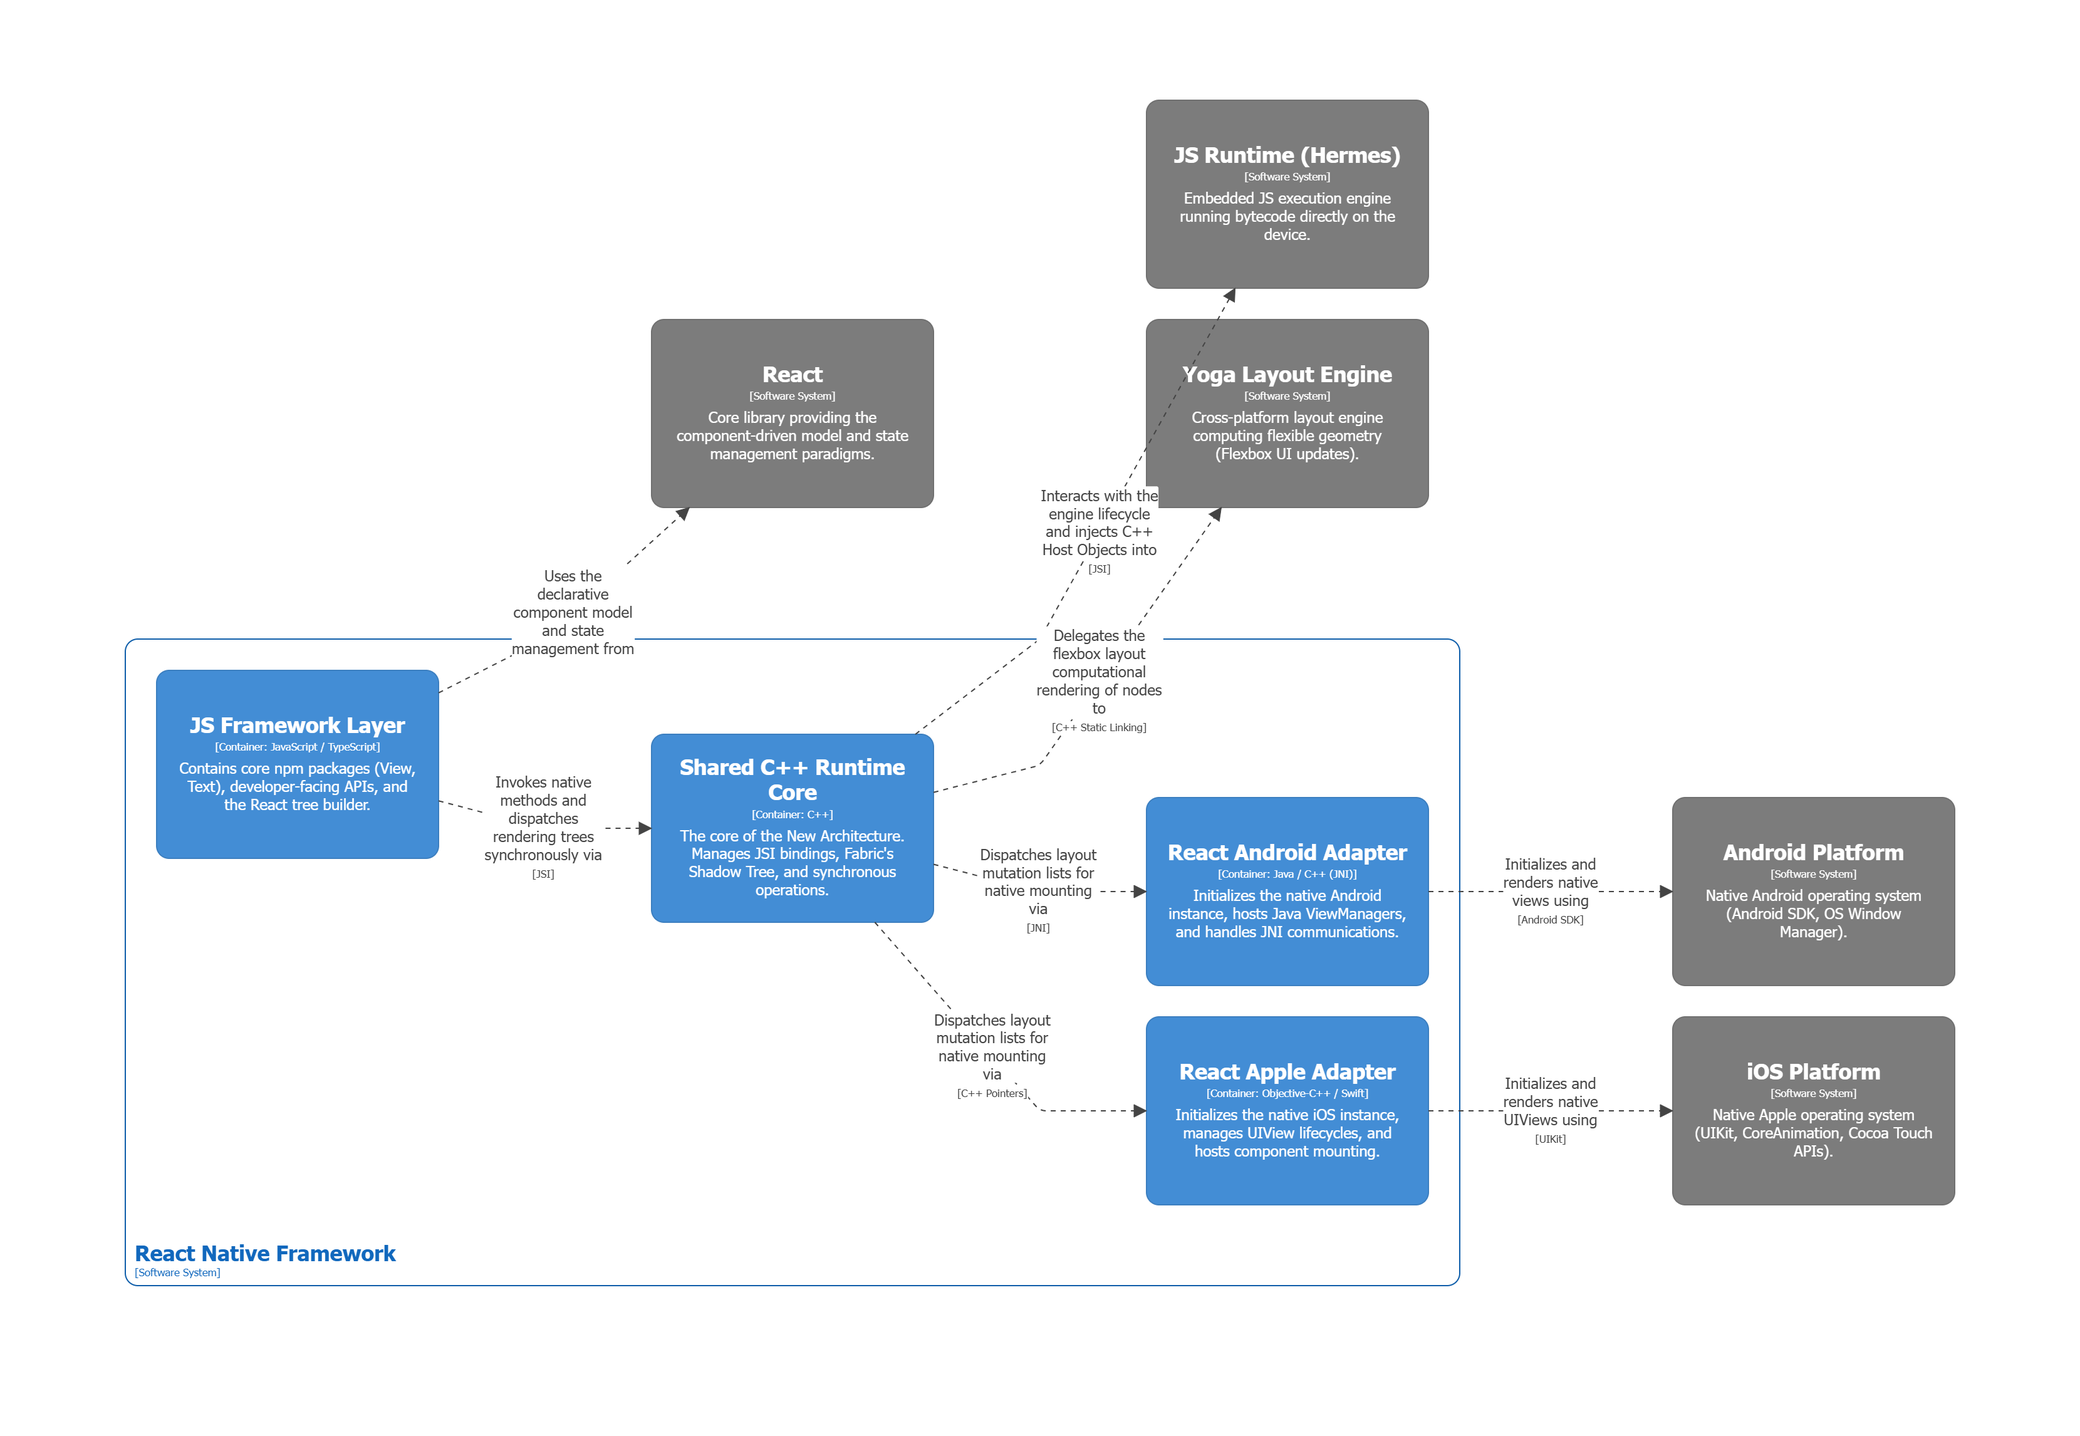
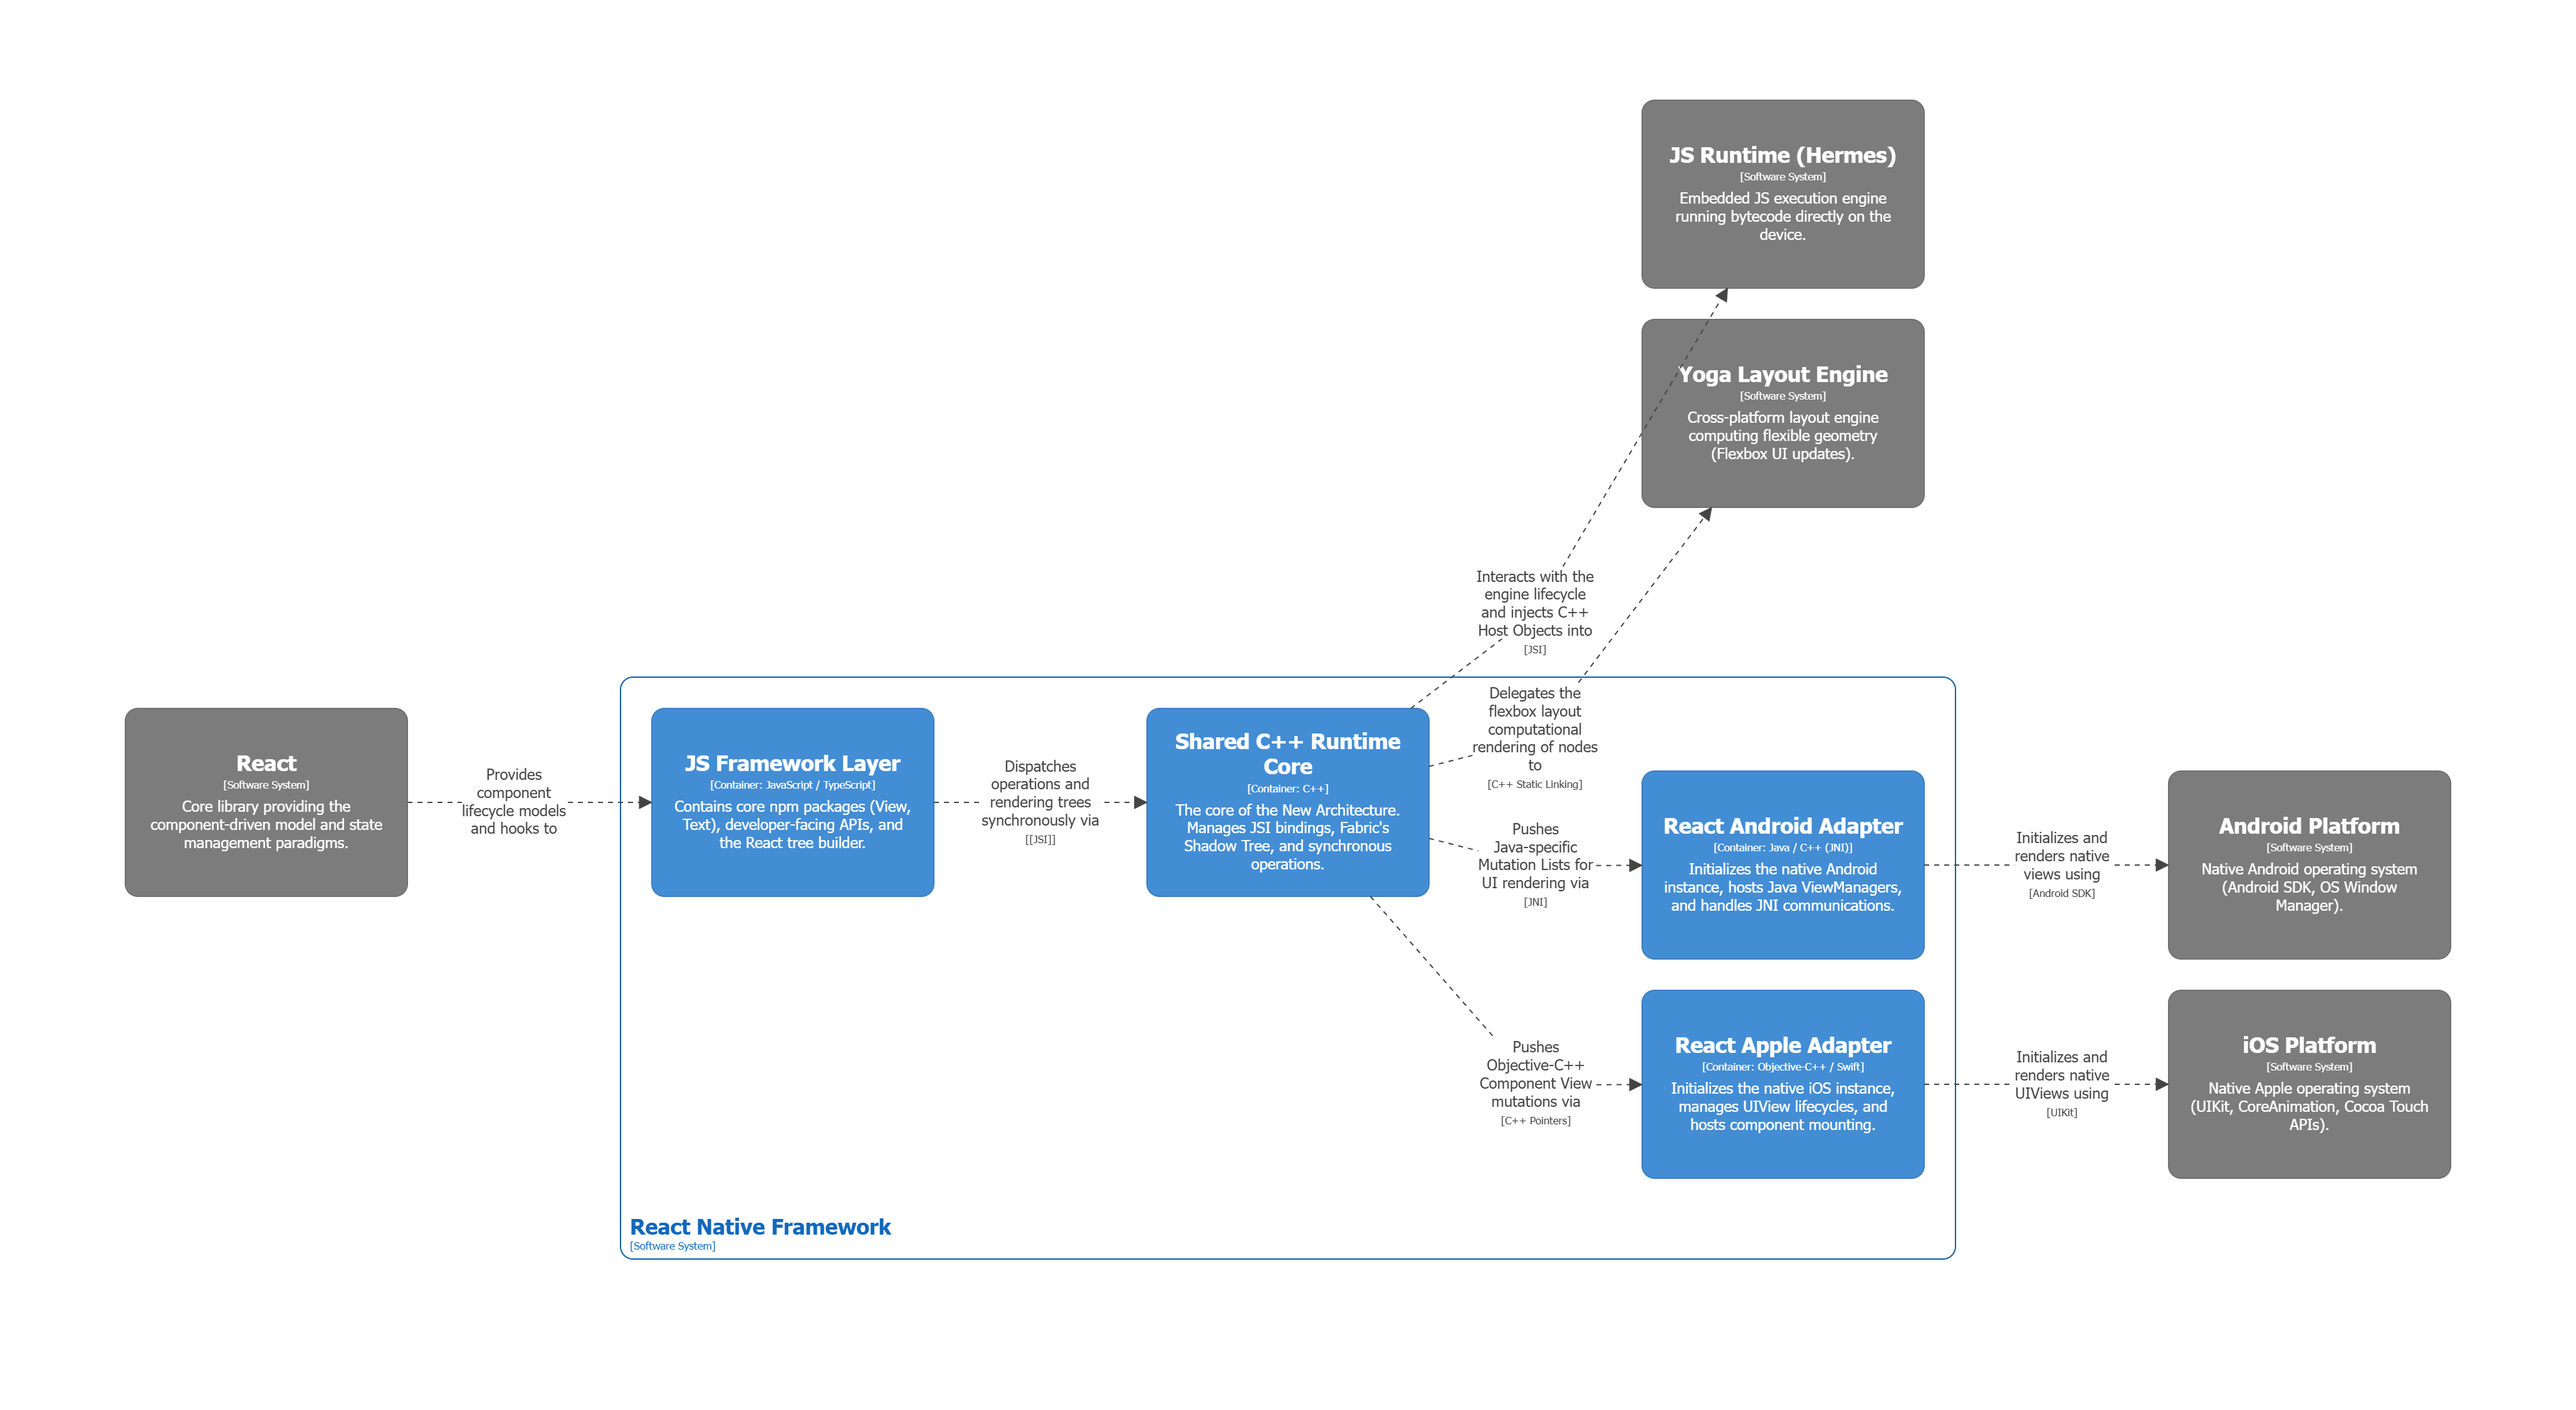
Refactor diagrams and update architecture report with detailed notes and corrections

diff --git a/reports/SoftwareArchitecture.md b/reports/SoftwareArchitecture.md
@@ -16,6 +16,7 @@ The Context diagram defines the macro-boundaries of the React Native Framework a
 * **JS Runtime (Hermes):** The external execution engine specifically optimized for React Native. It parses and evaluates JavaScript bytecode, manages garbage collection on the JS thread, and interacts directly with the C++ core via JSI.
 * **Yoga Layout Engine:** A standalone, cross-platform layout engine that implements Flexbox. React Native delegates the mathematical calculation of UI coordinates and geometry to this external C/C++ library.
 * **Android / iOS Platforms:** The ultimate targets of the framework. React Native pushes abstract initialization commands and native rendering instructions to these host operating systems.
+Through these relationships, the framework is able to translate React's declarative and expressive logic into high-performance user interfaces, leveraging the native capabilities of each operating system without compromising the user experience.
 
 *(Note: Human actors, such as Mobile Developers or End Users, are deliberately excluded from this boundary to strictly model the system-to-system integrations of the framework's runtime environment.)*
 
@@ -32,6 +33,10 @@ The Container diagram decomposes the React Native Framework into its primary dep
 * **JS Framework Layer:** Encapsulates the developer-facing APIs, core UI primitives, and the React tree calculation algorithms. It processes developer code and prepares standardized, synchronous rendering requests.
 * **Shared C++ Runtime Core:** The central engine of the New Architecture (codenamed Fabric). It manages JSI bindings, maintains the immutable C++ Shadow Tree, and processes synchronous logic independently of the host OS SDKs.
 * **React Android & React Apple Adapters:** Low-level boundary containers responsible for translating abstract C++ layout mutation instructions into concrete native UI rendering commands (using JNI for Android and Objective-C++ bindings for iOS).
+
+*(Note: the New Architecture is the one introduced with the release 0.76; which replaces the Legacy Bridge. Though Legacy Bridge is still present it is disabled by default via feature flags.)*
+
+*(Note: Since the monorepo is organized as a workspace of multiple packages, with the root package defining `packages/*` and `private/*` workspaces, we focused our analysis on the content of the public `/packages/react-native` folder. the `JS Framework Layer` is modeled from `Libraries/`, the `Shared C++ Runtime Core` is modeled from `React/` and `React Common/`; while `React Android Adapter` and `React Apple Adapter` are modeled from `ReactAndroid/` and `ReactApple/`.)*
 
 ### 3.1. Excluded Containers: React Native Codegen
 To maintain the architectural integrity of a runtime execution model, **React Native Codegen** was explicitly excluded from the C4 diagrams. Codegen is a build-time CLI utility responsible for generating static C++ boilerplate. Including a build-time tool within a Level 2 or Level 3 runtime workflow creates a severe Input/Output inconsistency; thus, it was omitted to strictly document the system's runtime architecture.
@@ -78,11 +83,14 @@ This diagram details the internal C++ pipeline responsible for synchronous UI re
 * **Shadow Tree Manager:** Constructs and maintains the C++ Shadow Tree—a hierarchy of immutable nodes representing the UI. It delegates the complex calculation of flexbox coordinates to the external Yoga engine.
 * **Mounting Coordinator:** Compares the newly calculated shadow tree with the previously rendered tree. It generates a highly optimized, abstract list of mutation operations (Create, Update, Delete nodes) and sends this list to the Platform Adapters.
 
+*(Note: JavaScript Interface (JSI), is a compact C++ API that bridges JavaScript engines and native code, enabling synchronous method calls between the JS layer and a C++ core. It exposes a runtime abstraction (`IRuntime`) for preparing and evaluating scripts, queuing and draining microtasks, and defining engine-specific runtime methods. Concrete implementations of those pure virtual APIs are provided by the underlying engine. JSI lets C++ create, inspect, and manipulate JS values (strings, numbers, symbols, objects, arrays, typed arrays) and supports host integration via `HostObject` and `HostFunction`, allowing JavaScript to get and set properties directly on native-backed objects..)*
+
 ### 4.3. SOLID Principles Observation at Level 3
 An analysis of the Level 3 C++ Core reveals strict adherence to, and potential risks regarding, SOLID principles:
 * **Single Responsibility Principle (SRP):** Strongly adhered to. In the legacy architecture, a monolithic `UIManager` handled tree management, diffing, and scheduling. In the New Architecture, responsibilities are cleanly segregated: `Fabric Scheduler` only schedules, `Shadow Tree Manager` only holds tree state, and `Mounting Coordinator` only calculates diffs.
 * **Open/Closed Principle (OCP):** Supported by the `TurboModules Engine`. The architecture allows developers to inject new native capabilities (Open for extension) without modifying the internal C++ core or the JSI bridge (Closed for modification) via standardized C++ interfaces.
 * **Interface Segregation Principle (ISP) Risk:** The `JSI Engine Bridge` presents a potential ISP violation. By acting as a massive, centralized router for all JS-to-C++ communications, it risks forcing various independent internal modules to depend on a single, monolithic interface definition rather than narrow, client-specific interfaces.
+* **Dependency Inversion Principle (DIP):** Low-level native OS platform views (`React Android Adapter` / `React Apple Adapter`) do not dictate the behavior of the high-level framework logic. Instead, both depend on the pure virtual interfaces and abstract structures defined in the `Shared C++ Runtime Core`.
 
 ---
 
@@ -92,6 +100,7 @@ An analysis of the Level 3 C++ Core reveals strict adherence to, and potential r
 1. **Interoperability:** Achieved natively via the JSI (JavaScript Interface). Unlike the legacy architecture that relied on asynchronous JSON serialization over a bridge, JSI allows JavaScript and C++ to share the same memory space, enabling direct, synchronous method invocations.
 2. **Portability:** The core layout and logic engines (`ReactCommon`) are written entirely in cross-platform C++14/C++17. This isolates the complex rendering logic from OS-specific SDKs, allowing the framework to be easily ported to Windows, macOS, or VR platforms.
 3. **Performance & Responsiveness:** By splitting the render pipeline into concurrent components, the architecture supports thread-safe background rendering. The `Shadow Tree Manager` computes complex layouts on a background thread, preventing the main UI thread from blocking and eliminating frame drops during complex animations.
+4. **Maintainability**: Moving core framework logic into a unified C++ codebase allows the community to maintain a single source of truth for core layout features. Although, some component-level adapters are large and highly connected.
 
 ### 5.2. Coupling and Cohesion Analysis
 The architectural design enforces high cohesion and low coupling, critical for long-term maintainability:
@@ -100,7 +109,7 @@ The architectural design enforces high cohesion and low coupling, critical for l
 
 ---
 
-## 6. Lines of Code (LOC) Analysis
+## 7. Lines of Code (LOC) Analysis
 
 The static code analysis metrics below demonstrate the distribution of the framework across its defined architectural containers. The data highlights the massive structural footprint of the JS API layer and the centralized C++ core. *(Analyzed using the `cloc` CLI tool on the active runtime repository, excluding tests, build artifacts, and third-party dependencies).*
 

diff --git a/journals/Oppezzo_Raul_s361308.md b/journals/Oppezzo_Raul_s361308.md
@@ -13,6 +13,7 @@
 | 2026-06-05 | Diagrams refactoring | 0.5 | Architecture |
 | 2026-06-08 | Report | 2.5 | Architecture |
 | 2026-06-09 | Report | 2.5 | Architecture |
+| 2026-06-10 | Report | 1.5 | Architecture |
 
 ## Detailed Contributions
 ### 2026-04-20 [Overview: Technical Background]
@@ -41,5 +42,8 @@
 ### 2026-06-08 [Architecture: Report]
 **Specific Contribution:** Drafted the core Architecture report sections.
 
-### 2026-06-09 [Architecture: Report — Finalization]
+### 2026-06-09 [Architecture: Report]
 **Specific Contribution:** Integrated clean architecture discussion and architecture characteristics.
+
+### 2026-06-10 [Architecture: Report]
+**Specific Contribution:** Fixed diagrams inconcistencies and added notes to report.
